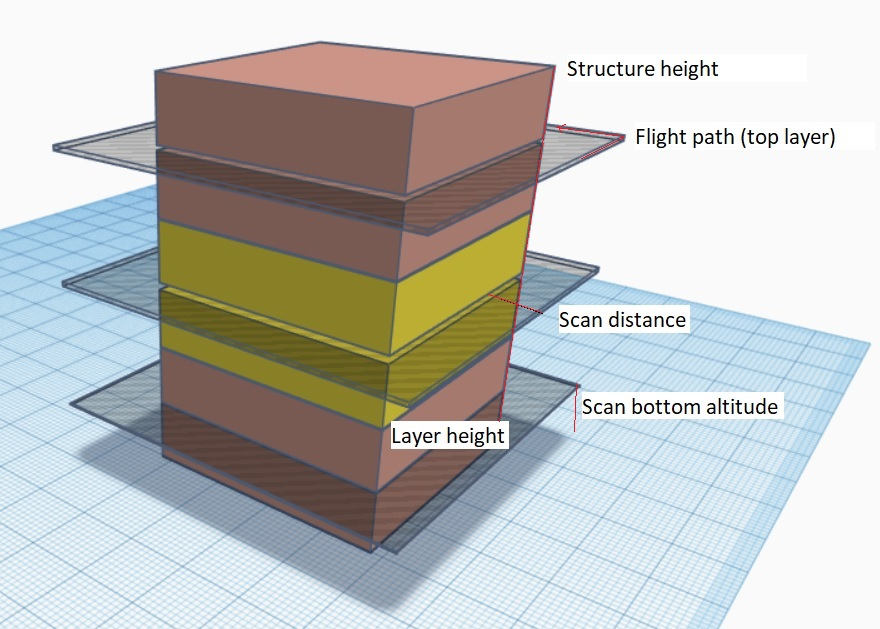
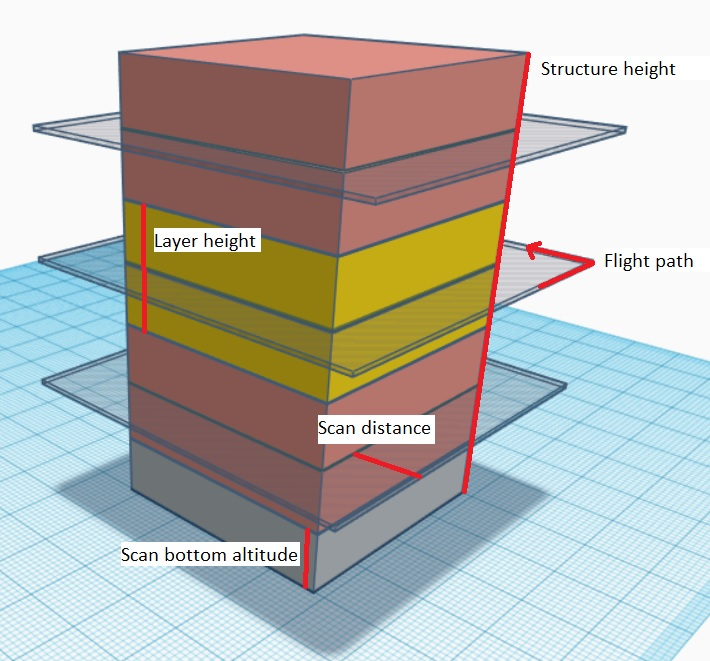
Fix image to clarify scan bottom alt

diff --git a/en/PlanView/pattern_structure_scan_v2.md b/en/PlanView/pattern_structure_scan_v2.md
@@ -25,6 +25,8 @@ The scan divides the structure evenly into layers; the vehicle flies all the way
 
 ![Layer JPG](../../assets/plan/structure_scan_v2/layers.jpg)
 
+Users can set the *scan bottom altitude* to avoid obstacles at the bottom of the structure, and also the altitude at which the vehicle will approach the start point before starting the scan (and leave after finishing).
+
 
 ## Creating a Scan
 
@@ -58,6 +60,7 @@ To create a scan:
    ![Structure Scan editor](../../assets/plan/structure_scan_v2/editor_options.jpg)
 
 The user can always configure the following settings:
+- **Start scan from top/bottom:** The direction in which layers are scanned.
 - **Structure height:** The height of the object being scanned.
 - **Scan distance:** Distance from the structure of the flight path.
 - **Entrance/Exit Alt:** Use this setting to avoid obstacles between the last/next waypoint and the structure to be scanned. 
@@ -66,7 +69,7 @@ The user can always configure the following settings:
 - **Scan Bottom Alt:** Use this setting to avoid obstacles around the base of the structure.
   This adjust the bottom of the structure to be above the ground, and hence the altitude of the first scan
   (the height of the lowest layer flight path is shown in the scan statistics as *Bottom Layer Alt*.
-- **Rotate Entry Point:**
+- **Rotate Entry Point:** Move the start/finish point to the next vertix/position on the flight path.
   
 The remaining settings depend on the *camera mode*:
 - *Manual Mode* allows you to specify:
